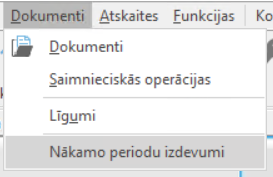
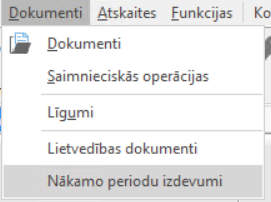
Atjauno Dokumentu attēlu un pievieno Lietvedības dokumentus

diff --git a/_docs/053-dokumenti-vispareja-informacija.md b/_docs/053-dokumenti-vispareja-informacija.md
@@ -17,9 +17,11 @@ Izvēlne, kurā pieejamas vairākas sadaļas darbam ar uzņēmuma dokumentiem un
 
 **Līgumi** - uzņēmuma līgumu saraksts, kur glabājas visi ievadītie līgumi ar partneriem un to būtiskā informācija.
 
+**Lietvedības dokumenti** - šeit glabājas ar citiem uzņēmuma moduļiem, piemēram, DVS (dokumentu vadības sistēmu), saistīti dokumenti to pārskatīšanai un arhivēšanai.
+
 **Nākamo periodu izdevumi** - papildu iegādājama funkcija, kas nodrošina nākamo periodu izmaksu plānošanu un grāmatošanu, piemēram, apdrošināšanas, abonementu vai nomas maksājumu sadalīšanu pa periodiem.
 
-<img src="{{ site.baseurl }}/assets/images/image98.png" alt="A screenshot of a computer AI-generated content may be incorrect." />
+<img src="{{ site.baseurl }}/assets/images/image98.png" alt="Dokumentu izvēlne ar lietvedības dokumentu sadaļu." />
 
 **Attēls Dokumenti**
 
